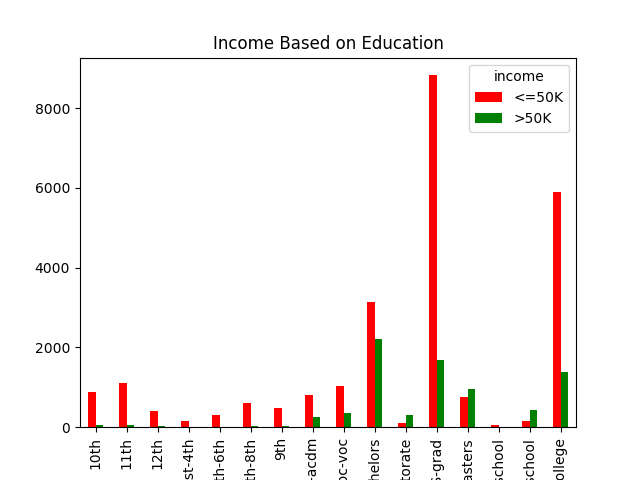
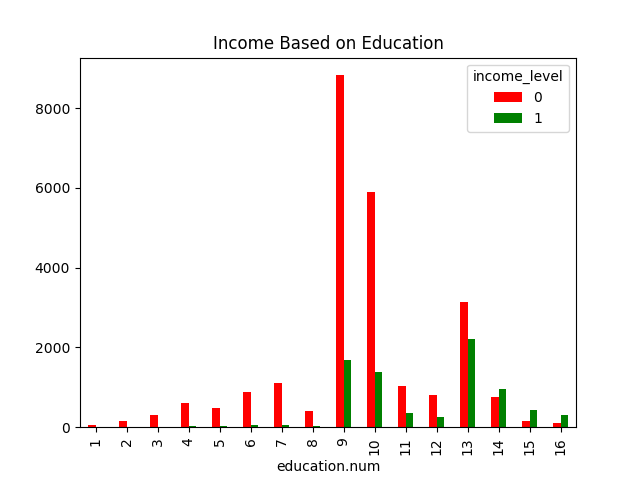
added more graphs. split housr per week section

diff --git a/census_pred.py b/census_pred.py
@@ -2,10 +2,8 @@ import numpy as np
 import pandas as pd 
 from matplotlib import pyplot as plt 
 
-
 #get dataset
 df = pd.read_csv('/Users/hernanrazo/pythonProjects/census_income_prediction/adult.csv')
-
 
 #make a string that holds most of the folder path
 graph_folder_path = '/Users/hernanrazo/pythonProjects/census_income_prediction/graphs/'
@@ -60,7 +58,6 @@ marital_status_key = {'Married-civ-spouse':0, 'Never-married':1, 'Divorced':2,
 
 df['marital_status'] = df['marital.status'].map(marital_status_key)
 
-print(df['occupation'].value_counts())
 #now do the occupation variable
 occupation_key = {'Prof-specialty':0, 'Craft-repair':1, 'Exec-managerial':2, 
 				  'Adm-clerical':3, 'Sales':4, 'Other-service':5,
@@ -70,20 +67,31 @@ occupation_key = {'Prof-specialty':0, 'Craft-repair':1, 'Exec-managerial':2,
 
 df['occupation'] = df['occupation'].map(occupation_key)
 
-#TODO: relationship variable next
+#do the same wtih the realtionship variable
+relationship_key = {'Husband':0, 'Not-in-family':1, 'Own-child':2, 'Unmarried':3,
+'Wife':4, 'Other-relative':5}
 
+df['relationship'] = df['relationship'].map(relationship_key)
+
+#do the same with the race variable
 #drop most original variables
 df = df.drop(['income'], axis = 1)
 df = df.drop(['sex'], axis = 1)
-df = df.drop(['ethnicity'], axis = 1)
+df = df.drop(['race'], axis = 1)
 df = df.drop(['native.country'], axis = 1)
 df = df.drop(['workclass'], axis = 1)
 df = df.drop(['marital.status'], axis = 1)
 
-print(df.head(30))
+#place hours per week into three categories: <40, 40, amd >40
+df['hours.per.week'] = df['hours.per.week'].astype(int)
+df.loc[df['hours.per.week'] < 40, 'hours.per.week'] = 0
+df.loc[df['hours.per.week'] == 40, 'hours.per.week'] = 1
+df.loc[df['hours.per.week'] > 40, 'hours.per.week'] = 2
 
+print(df['hours.per.week'].value_counts())
 
-'''
+#start visualizing the freshly cleaned data
+
 #print frequency table of population's education level
 print(df['education.num'].value_counts())
 
@@ -95,18 +103,49 @@ plt.savefig(graph_folder_path + 'ageHist.png')
 
 #make a bar graph showing income based on gender
 incomeGenderBar = plt.figure()
-incomeGenderBar = pd.crosstab(df['sex'], df['income'])
+incomeGenderBar = pd.crosstab(df['gender'], df['income_level'])
 incomeGenderBar.plot(kind = 'bar', color = ['red','green'], 
 	grid = False, title = 'Income Based on Gender')
 plt.savefig(graph_folder_path + 'incomeGenderBar.png')
 
-incomeCountryPie = plt.figure()
-plt.pie(df['income'], labels = df['native.country'])
-plt.savefig(graph_folder_path + 'incomeCountryPie.png')
-
+#make a bar graph showing income based on education
 incomeEdBar = plt.figure()
-incomeEdBar = pd.crosstab(df['education.num'], df['income'])
+incomeEdBar = pd.crosstab(df['education.num'], df['income_level'])
 incomeEdBar.plot(kind = 'bar', color = ['red','green'], 
 	grid = False, title = 'Income Based on Education')
 plt.savefig(graph_folder_path + 'incomeEdBar.png')
-'''
+
+#make a bar graph based on income and occupation
+incomeGenderOccGraph = plt.figure()
+incomeGenderOccGraph = pd.crosstab(df['occupation'], df['income_level'])
+incomeGenderOccGraph.plot(kind = 'bar', stacked = True, color = ['red', 'blue'],
+	grid = False, title = 'Income based on Occupation')
+plt.savefig(graph_folder_path + 'incomeOccGraph.png')
+
+#make a bar graph based on income and marital status
+incomeMarriageBar = plt.figure()
+incomeMarriageBar = pd.crosstab(df['marital_status'], df['income_level'])
+incomeMarriageBar.plot(kind = 'bar', stacked = True, color = ['red', 'green'], 
+	grid = False, title = 'Income Based on Marital Status')
+plt.savefig(graph_folder_path + 'incomeMarriageBar.png')
+
+#make a bar graph based on income and native country
+incomeCountryBar = plt.figure()
+incomeCountryBar = pd.crosstab(df['native_country'], df['income_level'])
+incomeCountryBar.plot(kind = 'bar', stacked = True, color = ['red', 'green'], 
+	grid = False, title = 'Income Based on Native Country')
+plt.savefig(graph_folder_path + 'incomeCountryBar.png')
+
+#make a graph based on income and hours worked per week
+incomeHoursBar = plt.figure()
+incomeHoursBar = pd.crosstab(df['hours.per.week'], df['income_level'])
+incomeHoursBar.plot(kind = 'bar', stacked = True, color = ['red', 'green'], 
+	grid = False, title = 'Income Based on Hours per Week')
+plt.savefig(graph_folder_path + 'incomeHoursBar.png')
+
+
+
+
+
+
+
